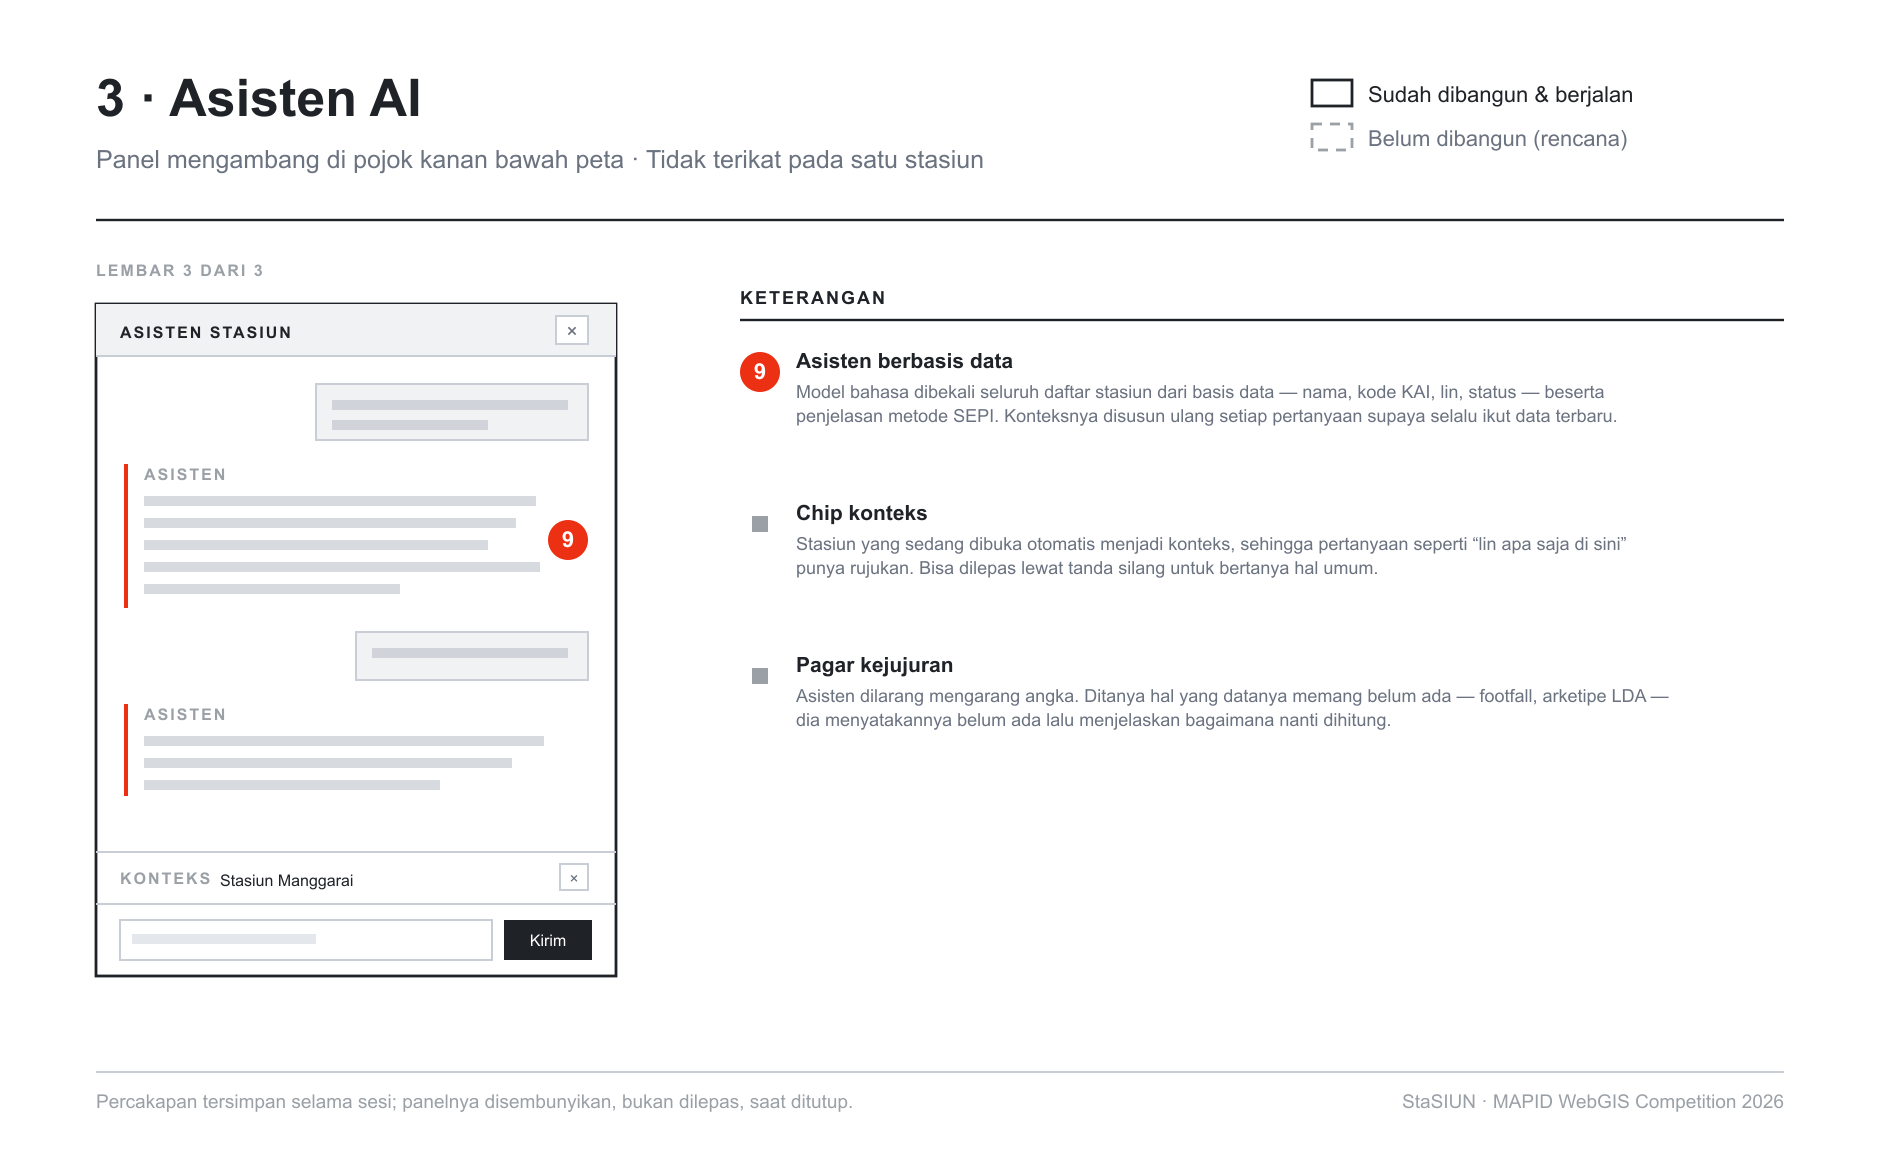
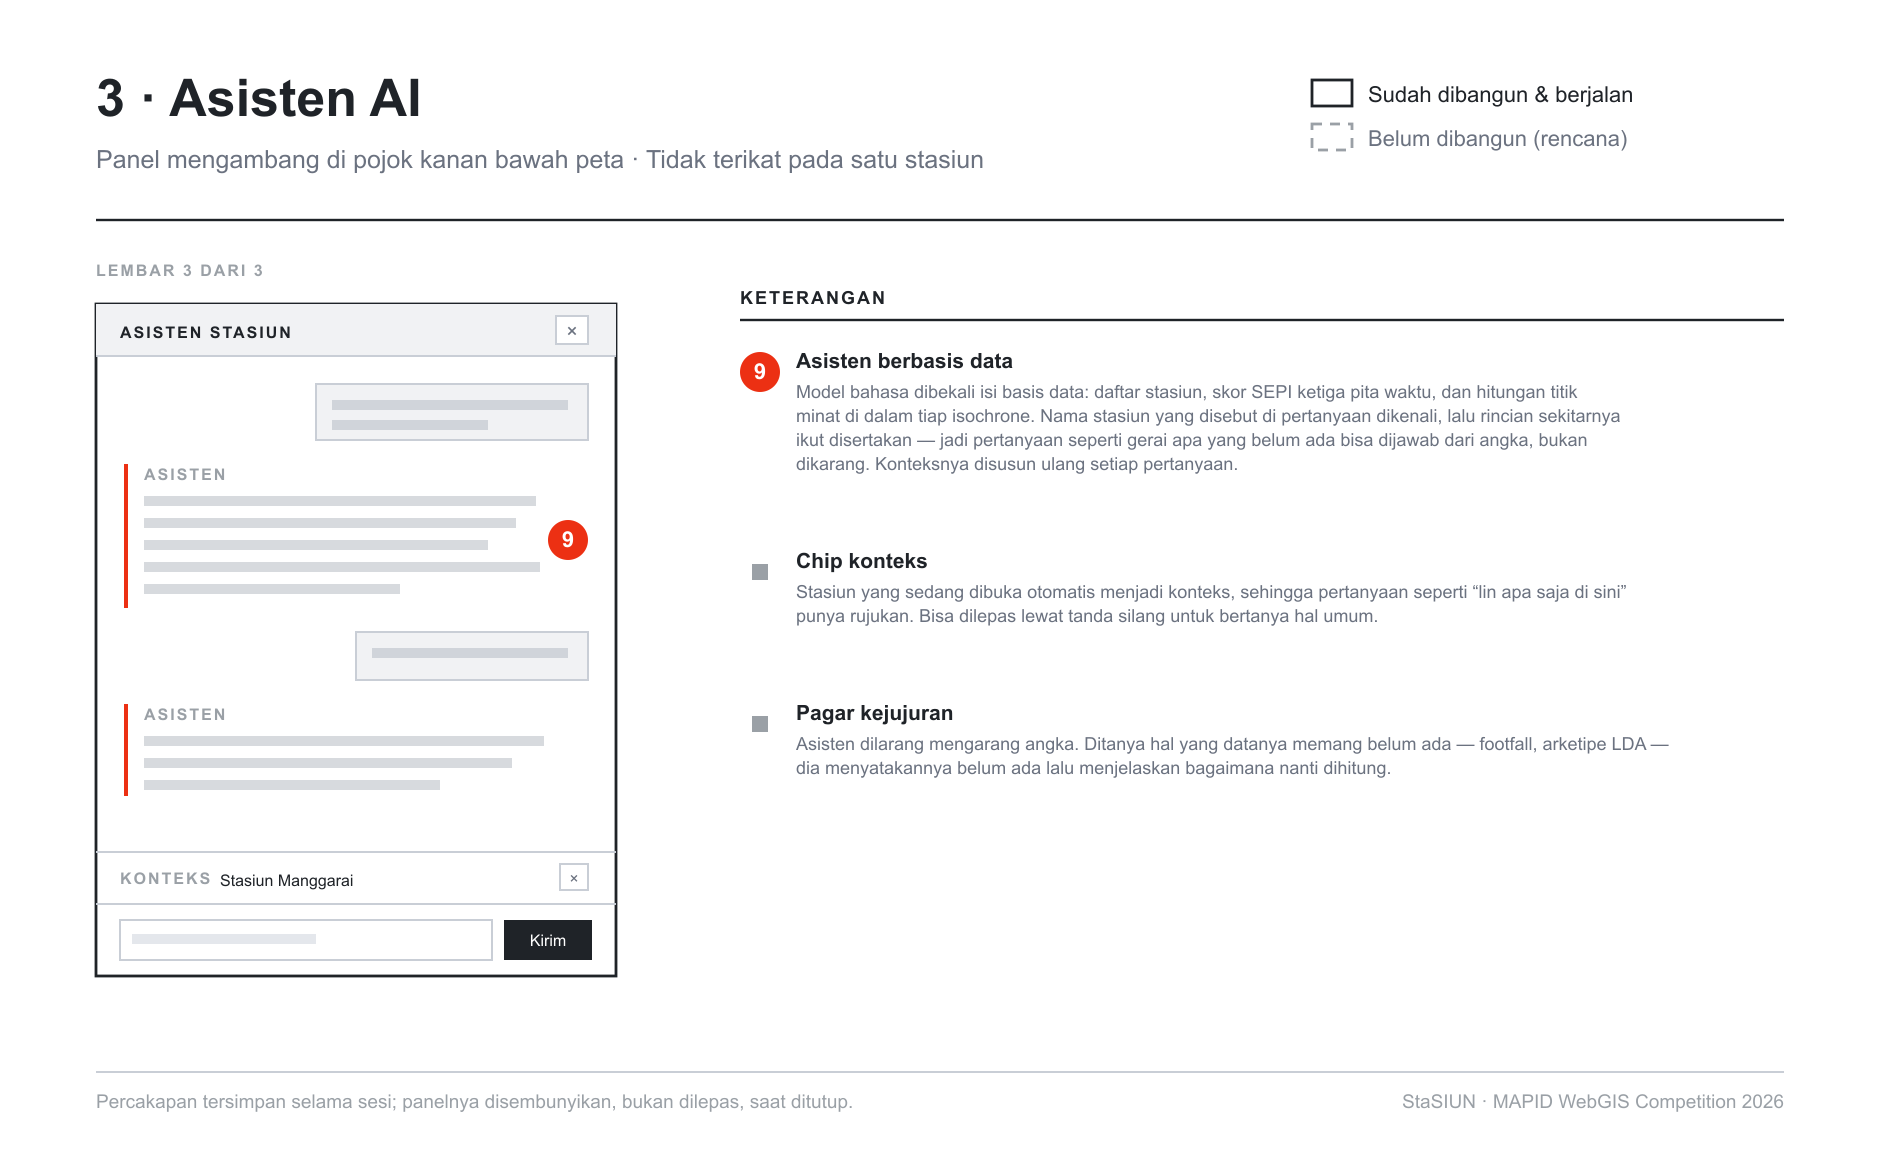
poi import feature

Changed region(s): [[0.4011, 0.4345, 0.8638, 0.6828], [0.4319, 0.3103, 0.8638, 0.4034]]

diff --git a/backend/app/services/poi_import.py b/backend/app/services/poi_import.py
@@ -6,6 +6,9 @@ dibiarkan, variabel SEPI yang disuapinya ikut berlipat — jadi semua titik
 disaring duplikatnya di sini, lintas kategori maupun lintas wilayah.
 """
 
+import math
+import re
+from collections import defaultdict
 from typing import Any
 
 from geoalchemy2 import WKTElement
@@ -13,17 +16,46 @@ from geoalchemy2 import WKTElement
 from app.core.database import SessionLocal
 from app.models.poi import Poi
 
-# Pembulatan koordinat buat mengenali titik yang sama dari dua layer berbeda.
-# Lima angka di belakang koma kira-kira satu meter di Jakarta — cukup ketat
-# untuk tidak menggabung dua toko bersebelahan, cukup longgar untuk memaafkan
-# beda pembulatan antar berkas.
-COORD_PRECISION = 5
+# Dua titik dianggap tempat yang sama kalau namanya cocok setelah dinormalkan
+# DAN jaraknya di bawah ambang ini. Cukup longgar untuk memaafkan beda
+# geocoding antar layer, cukup ketat untuk tidak menggabung dua gerai berbeda
+# di ruas jalan yang sama.
+SAME_PLACE_METERS = 25.0
 
 VALID_VARIABLES = {"T", "E", "A", "U", "C"}
 
 
 class PoiError(RuntimeError):
     """Raised when a POI layer cannot be turned into rows."""
+
+
+def name_key(name: str) -> str:
+    """Samakan ejaan supaya nama dari layer berbeda bisa dicocokkan.
+
+    Menyingkirkan semua yang bukan huruf atau angka. Itu sekaligus menjinakkan
+    tiga bentuk gangguan yang benar-benar muncul di data MAPID: tanda kurung
+    yang kadang ada kadang tidak ("INDOMARET PETOGOGAN TB49" versus
+    "INDOMARET PETOGOGAN (TB49)"), pemisah pipa, dan nama yang huruf beraksennya
+    telanjur rusak jadi mojibake.
+    """
+    cleaned = re.sub(r"[^A-Z0-9]", "", (name or "").upper())
+    # Nama yang tidak menyisakan satu pun huruf latin dipulangkan apa adanya,
+    # supaya dua tempat berbeda tidak tergabung cuma karena sama-sama kosong.
+    return cleaned or (name or "").strip().upper()
+
+
+def meters_between(a: tuple[float, float], b: tuple[float, float]) -> float:
+    """Jarak perkiraan dua koordinat, dalam meter.
+
+    Pakai perataan bidang datar, bukan haversine. Pada jarak puluhan meter di
+    lintang Jakarta galatnya jauh di bawah satu meter, dan ini dipanggil puluhan
+    ribu kali saat impor.
+    """
+    lon1, lat1 = a
+    lon2, lat2 = b
+    dx = (lon2 - lon1) * 111320.0 * math.cos(math.radians((lat1 + lat2) / 2))
+    dy = (lat2 - lat1) * 110540.0
+    return math.hypot(dx, dy)
 
 
 def feature_to_poi(feature: dict[str, Any], category: str, variable: str) -> dict | None:
@@ -50,28 +82,33 @@ def feature_to_poi(feature: dict[str, Any], category: str, variable: str) -> dic
         "kecamatan": props.get("KECAMATAN") or None,
         "location": WKTElement(f"POINT({lon} {lat})", srid=4326),
         # Bukan kolom database, cuma dipakai buat menyaring duplikat.
-        "_key": (
-            name.upper(),
-            round(lon, COORD_PRECISION),
-            round(lat, COORD_PRECISION),
-        ),
+        "_key": (name_key(name), (lon, lat)),
     }
 
 
 def dedupe(rows: list[dict]) -> list[dict]:
     """Buang titik yang sudah pernah masuk lewat layer lain.
 
+    Sengaja TIDAK memakai koordinat yang dibulatkan sebagai kunci. Pembulatan
+    ke kisi tidak pernah bisa menyatukan dua titik yang mengangkangi garis kisi,
+    sedekat apa pun jaraknya - Starbucks Cideng sempat lolos dua kali karena
+    dua salinannya terpaut 1,1 sentimeter tapi jatuh di sisi kisi yang berbeda.
+    Jaraknya diuji sungguhan supaya kasus seperti itu tertangkap.
+
     Yang menang adalah yang lebih dulu didaftarkan di layers.yml, jadi urutan
-    di katalog menentukan kategori mana yang dianggap paling menggambarkan.
+    kategori di katalog menentukan label mana yang dianggap paling menggambarkan.
     """
-    seen: set[tuple] = set()
+    kept: dict[str, list[tuple[float, float]]] = defaultdict(list)
     unique: list[dict] = []
 
     for row in rows:
-        key = row["_key"]
-        if key in seen:
+        key, point = row["_key"]
+        seen = kept[key]
+
+        if any(meters_between(point, other) <= SAME_PLACE_METERS for other in seen):
             continue
-        seen.add(key)
+
+        seen.append(point)
         unique.append({k: v for k, v in row.items() if k != "_key"})
 
     return unique

diff --git a/docs/wireframe/make_wireframe.py b/docs/wireframe/make_wireframe.py
@@ -527,7 +527,7 @@ def sheet_assistant():
     notes_column(
         370, 152, 522,
         [
-            (9, "Asisten berbasis data", "Model bahasa dibekali seluruh daftar stasiun dari basis data — nama, kode KAI, lin, status — beserta penjelasan metode SEPI. Konteksnya disusun ulang setiap pertanyaan supaya selalu ikut data terbaru."),
+            (9, "Asisten berbasis data", "Model bahasa dibekali isi basis data: daftar stasiun, skor SEPI ketiga pita waktu, dan hitungan titik minat di dalam tiap isochrone. Nama stasiun yang disebut di pertanyaan dikenali, lalu rincian sekitarnya ikut disertakan — jadi pertanyaan seperti gerai apa yang belum ada bisa dijawab dari angka, bukan dikarang. Konteksnya disusun ulang setiap pertanyaan."),
             (0, "Chip konteks", "Stasiun yang sedang dibuka otomatis menjadi konteks, sehingga pertanyaan seperti “lin apa saja di sini” punya rujukan. Bisa dilepas lewat tanda silang untuk bertanya hal umum."),
             (0, "Pagar kejujuran", "Asisten dilarang mengarang angka. Ditanya hal yang datanya memang belum ada — footfall, arketipe LDA — dia menyatakannya belum ada lalu menjelaskan bagaimana nanti dihitung."),
         ],
